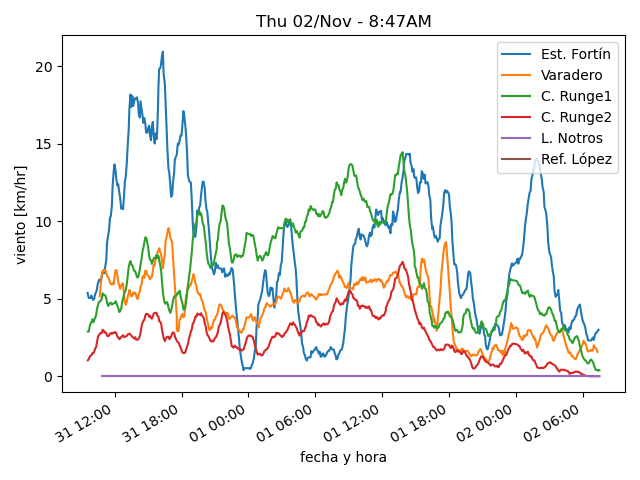
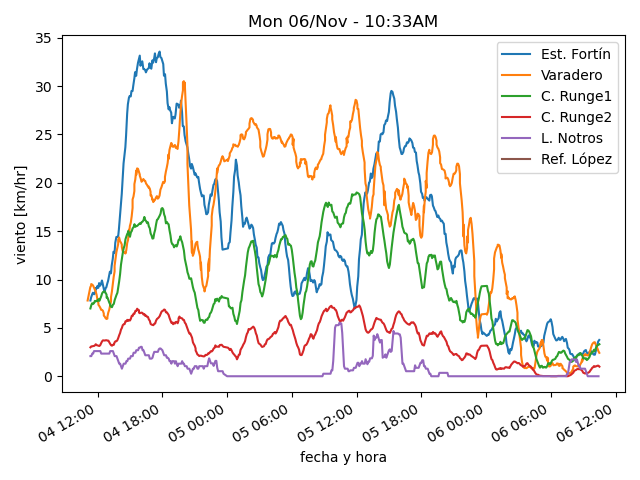
actualiza datos

diff --git a/estaciones/estacion2.html b/estaciones/estacion2.html
@@ -13,52 +13,52 @@
     </tr>
     <tr>
      <td class="stats_data">
-      Thu 02/Nov
+      Mon 06/Nov
      </td>
     </tr>
     <tr>
      <td class="stats_data">
-      7:19AM
+      10:29AM
      </td>
     </tr>
     <tr>
      <td class="stats_data">
-      3.7⁰C
+      10.1⁰C
      </td>
     </tr>
     <tr>
      <td class="stats_data">
-      2.7⁰C
+      7.1⁰C
      </td>
     </tr>
     <tr>
      <td class="stats_data">
-      94.0%
+      81.7%
      </td>
     </tr>
     <tr>
      <td class="stats_data">
-      1032.85hPa
+      1008.81hPa
      </td>
     </tr>
     <tr>
      <td class="stats_data">
-      0.0/0.0 km/hr WSW
+      3.5/3.7 km/hr WNW
      </td>
     </tr>
     <tr>
      <td class="stats_data">
-      1.02 / 0.0 mm
+      0.0 / 0.0 mm
      </td>
     </tr>
     <tr>
      <td class="stats_data">
-      0.0
+      1.0
      </td>
     </tr>
     <tr>
      <td class="stats_data">
-      24.7 W/m²
+      130.0 W/m²
      </td>
     </tr>
    </tbody>

diff --git a/estaciones/estacion1.html b/estaciones/estacion1.html
@@ -13,37 +13,37 @@
     </tr>
     <tr>
      <td class="stats_data">
-      Thu 02/Nov
+      Mon 06/Nov
      </td>
     </tr>
     <tr>
      <td class="stats_data">
-      7:24AM
+      10:29AM
      </td>
     </tr>
     <tr>
      <td class="stats_data">
-      0.9⁰C
+      11.8⁰C
      </td>
     </tr>
     <tr>
      <td class="stats_data">
-      -0.1⁰C
+      5.9⁰C
      </td>
     </tr>
     <tr>
      <td class="stats_data">
-      93.0%
+      67.0%
      </td>
     </tr>
     <tr>
      <td class="stats_data">
-      1023.37hPa
+      1010.84hPa
      </td>
     </tr>
     <tr>
      <td class="stats_data">
-      2.0/4.8 km/hr NW
+      2.6/4.8 km/hr SSE
      </td>
     </tr>
     <tr>
@@ -53,12 +53,12 @@
     </tr>
     <tr>
      <td class="stats_data">
-      0.0
+      1.4
      </td>
     </tr>
     <tr>
      <td class="stats_data">
-      51.0 W/m²
+      214.0 W/m²
      </td>
     </tr>
    </tbody>

diff --git a/estaciones/estacion4.html b/estaciones/estacion4.html
@@ -13,37 +13,37 @@
     </tr>
     <tr>
      <td class="stats_data">
-      Thu 02/Nov
+      Mon 06/Nov
      </td>
     </tr>
     <tr>
      <td class="stats_data">
-      7:29AM
+      10:29AM
      </td>
     </tr>
     <tr>
      <td class="stats_data">
-      3.4⁰C
+      10.1⁰C
      </td>
     </tr>
     <tr>
      <td class="stats_data">
-      2.1⁰C
+      5.9⁰C
      </td>
     </tr>
     <tr>
      <td class="stats_data">
-      90.5%
+      75.2%
      </td>
     </tr>
     <tr>
      <td class="stats_data">
-      1020.73hPa
+      1011.82hPa
      </td>
     </tr>
     <tr>
      <td class="stats_data">
-      0.0/0.0 km/hr SSW
+      0.3/0.6 km/hr W
      </td>
     </tr>
     <tr>
@@ -53,12 +53,12 @@
     </tr>
     <tr>
      <td class="stats_data">
-      0.0
+      1.0
      </td>
     </tr>
     <tr>
      <td class="stats_data">
-      12.4 W/m²
+      108.6 W/m²
      </td>
     </tr>
    </tbody>

diff --git a/estaciones/estacion3.html b/estaciones/estacion3.html
@@ -13,37 +13,37 @@
     </tr>
     <tr>
      <td class="stats_data">
-      Thu 02/Nov
+      Mon 06/Nov
      </td>
     </tr>
     <tr>
      <td class="stats_data">
-      7:29AM
+      10:29AM
      </td>
     </tr>
     <tr>
      <td class="stats_data">
-      3.7⁰C
+      9.6⁰C
      </td>
     </tr>
     <tr>
      <td class="stats_data">
-      2.4⁰C
+      6.3⁰C
      </td>
     </tr>
     <tr>
      <td class="stats_data">
-      91.3%
+      80.0%
      </td>
     </tr>
     <tr>
      <td class="stats_data">
-      1011.82hPa
+      1002.81hPa
      </td>
     </tr>
     <tr>
      <td class="stats_data">
-      1.0/1.7 km/hr W
+      3.1/4.1 km/hr NW
      </td>
     </tr>
     <tr>
@@ -53,12 +53,12 @@
     </tr>
     <tr>
      <td class="stats_data">
-      0.0
+      1.0
      </td>
     </tr>
     <tr>
      <td class="stats_data">
-      13.3 W/m²
+      126.1 W/m²
      </td>
     </tr>
    </tbody>

diff --git a/estaciones/estacion5.html b/estaciones/estacion5.html
@@ -13,32 +13,32 @@
     </tr>
     <tr>
      <td class="stats_data">
-      Thu 02/Nov
+      Mon 06/Nov
      </td>
     </tr>
     <tr>
      <td class="stats_data">
-      7:25AM
+      10:25AM
      </td>
     </tr>
     <tr>
      <td class="stats_data">
-      0.6⁰C
+      9.4⁰C
      </td>
     </tr>
     <tr>
      <td class="stats_data">
-      -0.4⁰C
+      7.6⁰C
      </td>
     </tr>
     <tr>
      <td class="stats_data">
-      93.0%
+      88.0%
      </td>
     </tr>
     <tr>
      <td class="stats_data">
-      1026.55hPa
+      1013.0hPa
      </td>
     </tr>
     <tr>
@@ -48,7 +48,7 @@
     </tr>
     <tr>
      <td class="stats_data">
-      0.0 / 0.0 mm
+      0.25 / 0.25 mm
      </td>
     </tr>
     <tr>
